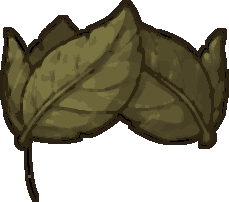
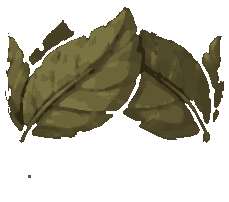
eggwar v2.34 — 투구 내부(개구부 그늘) 투명화: 계란이 뒤로 비치게 (피팅 전 사전 세팅)
Claude-Session: https://claude.ai/code/session_016Knotu6mMMMg8S1HEFVpTR

Changed region(s): [[0.0, 0.0, 1.0, 1.0], [0.1528, 0.5941, 0.1834, 0.6238]]

diff --git a/eggwar/index.html b/eggwar/index.html
@@ -17,24 +17,24 @@
 <meta property="og:title" content="계란들의 전쟁 — 계란 부족 비대칭 실시간 대전">
 <meta property="og:description" content="계란 전사들의 전쟁. 진형을 짜는 사람과 영웅을 모는 사람이 같은 판에서 싸운다.">
 <meta property="og:type" content="website">
-<link rel="stylesheet" href="css/style.css?v=2.33">
+<link rel="stylesheet" href="css/style.css?v=2.34">
 
 <!-- 설치(PWA). 홈 화면에서 열면 주소창이 사라져 뷰포트가 흔들리지 않는다 —
      기종별 레이아웃 사고의 원인을 제거하는 것이 목적이다.
      viewport-fit=cover 는 일부러 넣지 않는다: 노치 아래로 캔버스가 파고들면
      letterbox 계산이 또 어긋난다. standalone 만으로 주소창 문제는 해결된다. -->
-<link rel="manifest" href="manifest.json?v=2.33">
+<link rel="manifest" href="manifest.json?v=2.34">
 <meta name="theme-color" content="#123f96">
 <meta name="mobile-web-app-capable" content="yes">
 <meta name="apple-mobile-web-app-capable" content="yes">
 <meta name="apple-mobile-web-app-title" content="계란들의 전쟁">
 <meta name="apple-mobile-web-app-status-bar-style" content="default">
-<link rel="apple-touch-icon" href="icons/apple-touch-icon.png?v=2.33">
-<link rel="icon" type="image/png" sizes="192x192" href="icons/icon-192.png?v=2.33">
+<link rel="apple-touch-icon" href="icons/apple-touch-icon.png?v=2.34">
+<link rel="icon" type="image/png" sizes="192x192" href="icons/icon-192.png?v=2.34">
 </head>
 <body>
 <div id="game"></div>
-<div id="ver">v2.33</div>
+<div id="ver">v2.34</div>
 <div id="rotate">
   <div>
     <div id="rotate-icon">📱</div>
@@ -59,111 +59,111 @@
         crossorigin="anonymous" referrerpolicy="no-referrer"></script>
 <!-- Phaser 의 타원 그리기가 호출마다 만들던 쓰레기를 없앤다(2026-08-05).
      ⚠ Phaser **바로 뒤**여야 한다 — 프로토타입을 갈아끼우므로 어떤 씬보다 먼저 돌아야 한다. -->
-<script src="js/gfxpool.js?v=2.33"></script>
+<script src="js/gfxpool.js?v=2.34"></script>
 <!-- 세로에서 게임을 90도 눕혀 가로로 — 잠금 API 없는 기기의 정답(js/rot90.js 주석) -->
-<script src="js/rot90.js?v=2.33"></script>
-<script src="js/config.js?v=2.33"></script>
-<script src="js/store.js?v=2.33"></script>
-<script src="js/pwa.js?v=2.33"></script>
-<script src="js/sound.js?v=2.33"></script>
-<script src="js/music.js?v=2.33"></script>
-<script src="js/api.js?v=2.33"></script>
-<script src="js/account.js?v=2.33"></script>
-<script src="js/score.js?v=2.33"></script>
-<script src="js/iso.js?v=2.33"></script>
-<script src="js/layout.js?v=2.33"></script>
-<script src="js/learn.js?v=2.33"></script>
-<script src="js/profile.js?v=2.33"></script>
-<script src="js/autoformation.js?v=2.33"></script>
-<script src="js/tower.js?v=2.33"></script>
-<script src="js/towerlearn.js?v=2.33"></script>
-<script src="js/defendtower.js?v=2.33"></script>
-<script src="js/towerrun.js?v=2.33"></script>
+<script src="js/rot90.js?v=2.34"></script>
+<script src="js/config.js?v=2.34"></script>
+<script src="js/store.js?v=2.34"></script>
+<script src="js/pwa.js?v=2.34"></script>
+<script src="js/sound.js?v=2.34"></script>
+<script src="js/music.js?v=2.34"></script>
+<script src="js/api.js?v=2.34"></script>
+<script src="js/account.js?v=2.34"></script>
+<script src="js/score.js?v=2.34"></script>
+<script src="js/iso.js?v=2.34"></script>
+<script src="js/layout.js?v=2.34"></script>
+<script src="js/learn.js?v=2.34"></script>
+<script src="js/profile.js?v=2.34"></script>
+<script src="js/autoformation.js?v=2.34"></script>
+<script src="js/tower.js?v=2.34"></script>
+<script src="js/towerlearn.js?v=2.34"></script>
+<script src="js/defendtower.js?v=2.34"></script>
+<script src="js/towerrun.js?v=2.34"></script>
 <!-- 영구 캐릭터(2026-08-01) — 탑이 더는 towerrun.js 의 도전(run) 개념을 안 쓴다.
      towerrun.js 는 대전(arenabuild.js)이 가격표를 빌려 쓰므로 그대로 둔다. -->
-<script src="js/towerchar.js?v=2.33"></script>
-<script src="js/droppopup.js?v=2.33"></script>
-<script src="js/towershopitems.js?v=2.33"></script>
+<script src="js/towerchar.js?v=2.34"></script>
+<script src="js/droppopup.js?v=2.34"></script>
+<script src="js/towershopitems.js?v=2.34"></script>
 <!-- 통곡의 탑 대개편 — 층 배치 원형 / 층 조건.
      towerrun.js 뒤에 둔다: 둘 다 `TowerRun.get().seed` 를 읽어 원형·조건을 정한다. -->
-<script src="js/towercurriculum.js?v=2.33"></script>
-<script src="js/towerplan.js?v=2.33"></script>
-<script src="js/towerrule.js?v=2.33"></script>
+<script src="js/towercurriculum.js?v=2.34"></script>
+<script src="js/towerplan.js?v=2.34"></script>
+<script src="js/towerrule.js?v=2.34"></script>
 <!-- 대개편 2단계 — 구슬 효과표(내 쪽 행동) / 층 목표(이기는 길).
      두 갈래 문은 제거했다(2026-07-31). towerboon.js 는 이제 **효과 정의만** 담당하고,
      얻는 방법은 js/orb.js 가 쥔다. towerobjective 는 순서 자유이나 함께 둔다. -->
-<script src="js/towerboon.js?v=2.33"></script>
-<script src="js/towerobjective.js?v=2.33"></script>
-<script src="js/unitlevel.js?v=2.33"></script>
-<script src="js/arena.js?v=2.33"></script>
-<script src="js/rtscore.js?v=2.33"></script>
-<script src="js/arenabuild.js?v=2.33"></script>
-<script src="js/units.js?v=2.33"></script>
-<script src="js/heroes.js?v=2.33"></script>
-<script src="js/items.js?v=2.33"></script>
-<script src="js/formations.js?v=2.33"></script>
+<script src="js/towerboon.js?v=2.34"></script>
+<script src="js/towerobjective.js?v=2.34"></script>
+<script src="js/unitlevel.js?v=2.34"></script>
+<script src="js/arena.js?v=2.34"></script>
+<script src="js/rtscore.js?v=2.34"></script>
+<script src="js/arenabuild.js?v=2.34"></script>
+<script src="js/units.js?v=2.34"></script>
+<script src="js/heroes.js?v=2.34"></script>
+<script src="js/items.js?v=2.34"></script>
+<script src="js/formations.js?v=2.34"></script>
 <!-- 실시간 대전 통신층(P3) — BASE 가 살아 있으면 켜진다. 호출부는 versus 계열 씬. -->
-<script src="js/netroom.js?v=2.33"></script>
-<script src="js/netrtc.js?v=2.33"></script>
-<script src="js/lockstep.js?v=2.33"></script>
-<script src="js/detmath.js?v=2.33"></script>
-<script src="js/combat.js?v=2.33"></script>
-<script src="js/input.js?v=2.33"></script>
-<script src="js/touchpad.js?v=2.33"></script>
-<script src="js/aihero.js?v=2.33"></script>
-<script src="js/ui.js?v=2.33"></script>
-<script src="js/ui-theme.js?v=2.33"></script>
-<script src="js/ui-hud.js?v=2.33"></script>
-<script src="js/theme-a.js?v=2.33"></script>
-<script src="js/theme-b.js?v=2.33"></script>
-<script src="js/theme-c.js?v=2.33"></script>
-<script src="js/theme-switch.js?v=2.33"></script>
-<script src="js/modal.js?v=2.33"></script>
-<script src="js/eggart.js?v=2.33"></script>
-<script src="js/lobbyart.js?v=2.33"></script>
-<script src="js/tutorial.js?v=2.33"></script>
-<script src="js/bossbank.js?v=2.33"></script>
-<script src="js/gearbank.js?v=2.33"></script>
-<script src="js/bossart.js?v=2.33"></script>
-<script src="js/dragonasset.js?v=2.33"></script>
-<script src="js/itemart.js?v=2.33"></script>
-<script src="js/coin.js?v=2.33"></script>
+<script src="js/netroom.js?v=2.34"></script>
+<script src="js/netrtc.js?v=2.34"></script>
+<script src="js/lockstep.js?v=2.34"></script>
+<script src="js/detmath.js?v=2.34"></script>
+<script src="js/combat.js?v=2.34"></script>
+<script src="js/input.js?v=2.34"></script>
+<script src="js/touchpad.js?v=2.34"></script>
+<script src="js/aihero.js?v=2.34"></script>
+<script src="js/ui.js?v=2.34"></script>
+<script src="js/ui-theme.js?v=2.34"></script>
+<script src="js/ui-hud.js?v=2.34"></script>
+<script src="js/theme-a.js?v=2.34"></script>
+<script src="js/theme-b.js?v=2.34"></script>
+<script src="js/theme-c.js?v=2.34"></script>
+<script src="js/theme-switch.js?v=2.34"></script>
+<script src="js/modal.js?v=2.34"></script>
+<script src="js/eggart.js?v=2.34"></script>
+<script src="js/lobbyart.js?v=2.34"></script>
+<script src="js/tutorial.js?v=2.34"></script>
+<script src="js/bossbank.js?v=2.34"></script>
+<script src="js/gearbank.js?v=2.34"></script>
+<script src="js/bossart.js?v=2.34"></script>
+<script src="js/dragonasset.js?v=2.34"></script>
+<script src="js/itemart.js?v=2.34"></script>
+<script src="js/coin.js?v=2.34"></script>
 <!-- 구슬 — 적을 잡으면 확률로 떨어지는 능력 구슬. coin.js 와 같은 문법이라 뒤에 둔다. -->
-<script src="js/orb.js?v=2.33"></script>
+<script src="js/orb.js?v=2.34"></script>
 <!-- 치유 구역(2026-08-01) — 물약을 대신한다. orb.js 와 같은 문법. -->
-<script src="js/healzone.js?v=2.33"></script>
+<script src="js/healzone.js?v=2.34"></script>
 <!-- 타격 파티클(2026-08-04) — 텍스처를 런타임에 구워 자산 0KB 를 지킨다. -->
-<script src="js/hitfx.js?v=2.33"></script>
-<script src="js/skillfx.js?v=2.33"></script>
-<script src="js/scenes/loading.js?v=2.33"></script>
-<script src="js/scenes/login.js?v=2.33"></script>
-<script src="js/scenes/menu.js?v=2.33"></script>
-<script src="js/scenes/select.js?v=2.33"></script>
-<script src="js/scenes/build.js?v=2.33"></script>
-<script src="js/scenes/draft.js?v=2.33"></script>
-<script src="js/scenes/draft-mobile.js?v=2.33"></script>
-<script src="js/scenes/battle.js?v=2.33"></script>
-<script src="js/scenes/defend.js?v=2.33"></script>
-<script src="js/scenes/defend-tower.js?v=2.33"></script>
-<script src="js/scenes/versus.js?v=2.33"></script>
-<script src="js/scenes/rtlobby.js?v=2.33"></script>
-<script src="js/scenes/result.js?v=2.33"></script>
+<script src="js/hitfx.js?v=2.34"></script>
+<script src="js/skillfx.js?v=2.34"></script>
+<script src="js/scenes/loading.js?v=2.34"></script>
+<script src="js/scenes/login.js?v=2.34"></script>
+<script src="js/scenes/menu.js?v=2.34"></script>
+<script src="js/scenes/select.js?v=2.34"></script>
+<script src="js/scenes/build.js?v=2.34"></script>
+<script src="js/scenes/draft.js?v=2.34"></script>
+<script src="js/scenes/draft-mobile.js?v=2.34"></script>
+<script src="js/scenes/battle.js?v=2.34"></script>
+<script src="js/scenes/defend.js?v=2.34"></script>
+<script src="js/scenes/defend-tower.js?v=2.34"></script>
+<script src="js/scenes/versus.js?v=2.34"></script>
+<script src="js/scenes/rtlobby.js?v=2.34"></script>
+<script src="js/scenes/result.js?v=2.34"></script>
 <!-- 이어하기(2026-08-05) — 계정이 없어 캐릭터가 기기에 갇히는 구멍을 메운다.
      Store/Account 뒤, 씬보다 앞. -->
 <!-- 닉네임+PIN(2026-08-05). ⚠ 서버(/auth/*)가 아직 없을 수 있다 —
      js/auth.js 가 404 를 만나면 예전처럼 PIN 없이 동작한다. -->
-<script src="js/auth.js?v=2.33"></script>
-<script src="js/pinui.js?v=2.33"></script>
-<script src="js/transfer.js?v=2.33"></script>
-<script src="js/transferui.js?v=2.33"></script>
-<script src="js/scenes/tower.js?v=2.33"></script>
+<script src="js/auth.js?v=2.34"></script>
+<script src="js/pinui.js?v=2.34"></script>
+<script src="js/transfer.js?v=2.34"></script>
+<script src="js/transferui.js?v=2.34"></script>
+<script src="js/scenes/tower.js?v=2.34"></script>
 <!-- 영구 캐릭터 대개편(2026-08-01) — 상점(아이템/스킬/능력치 탭) + 도전 진입 로딩. -->
-<script src="js/scenes/towershop.js?v=2.33"></script>
-<script src="js/scenes/towerloading.js?v=2.33"></script>
-<script src="js/onboard.js?v=2.33"></script>
-<script src="js/scenes/rank.js?v=2.33"></script>
-<script src="js/scenes/fitscene.js?v=2.33"></script>
-<script src="js/scenes/admin.js?v=2.33"></script>
-<script src="js/main.js?v=2.33"></script>
+<script src="js/scenes/towershop.js?v=2.34"></script>
+<script src="js/scenes/towerloading.js?v=2.34"></script>
+<script src="js/onboard.js?v=2.34"></script>
+<script src="js/scenes/rank.js?v=2.34"></script>
+<script src="js/scenes/fitscene.js?v=2.34"></script>
+<script src="js/scenes/admin.js?v=2.34"></script>
+<script src="js/main.js?v=2.34"></script>
 </body>
 </html>

diff --git a/eggwar/js/gearbank.js b/eggwar/js/gearbank.js
@@ -45,17 +45,17 @@
     furimg:      { src: 'assets/gear/furimg.png?v=2.30' },
     packimg:     { src: 'assets/gear/packimg.png?v=2.30' },
     //  영웅 투구 3종 (2026-08-21 시트 1차분 — 정면 단독컷)
-    helmVanguard: { src: 'assets/helm/vanguard2.png?v=2.32' },
-    helmPot:    { src: 'assets/helm/pot.png?v=2.32' },
-    helmBand:   { src: 'assets/helm/band.png?v=2.32' },
-    helmCap:    { src: 'assets/helm/cap.png?v=2.32' },
-    helmHood:   { src: 'assets/helm/hood.png?v=2.32' },
-    helmLeaf:   { src: 'assets/helm/leaf.png?v=2.32' },
-    helmBucket: { src: 'assets/helm/bucket.png?v=2.32' },
-    helmHorns:  { src: 'assets/helm/horns.png?v=2.32' },
-    helmSedge:  { src: 'assets/helm/sedge.png?v=2.32' },
-    helmPot2:   { src: 'assets/helm/pot2.png?v=2.32' },
-    helmRanger:   { src: 'assets/helm/ranger.png?v=2.29' },
+    helmVanguard: { src: 'assets/helm/vanguard2.png?v=2.34' },
+    helmPot:    { src: 'assets/helm/pot.png?v=2.34' },
+    helmBand:   { src: 'assets/helm/band.png?v=2.34' },
+    helmCap:    { src: 'assets/helm/cap.png?v=2.34' },
+    helmHood:   { src: 'assets/helm/hood.png?v=2.34' },
+    helmLeaf:   { src: 'assets/helm/leaf.png?v=2.34' },
+    helmBucket: { src: 'assets/helm/bucket.png?v=2.34' },
+    helmHorns:  { src: 'assets/helm/horns.png?v=2.34' },
+    helmSedge:  { src: 'assets/helm/sedge.png?v=2.34' },
+    helmPot2:   { src: 'assets/helm/pot2.png?v=2.34' },
+    helmRanger:   { src: 'assets/helm/ranger.png?v=2.34' },
     helmWarden:   { src: 'assets/helm/warden.png?v=2.29' },
     //  이펙트 (흰색 원본 — 코드가 틴트·블렌드로 색을 입힌다)
     flame:       { src: 'assets/fx/flame.png?v=2.27' },

diff --git a/eggwar/js/main.js b/eggwar/js/main.js
@@ -1,6 +1,6 @@
 window.GAME = window.GAME || {};
 
-GAME.VERSION = 'v2.33';
+GAME.VERSION = 'v2.34';
 
 // 주소에 ?admin=1 을 붙이면 닉네임 관리 화면에 들어갈 수 있다
 GAME.isAdmin = /[?&]admin=1/.test(location.search || '');
